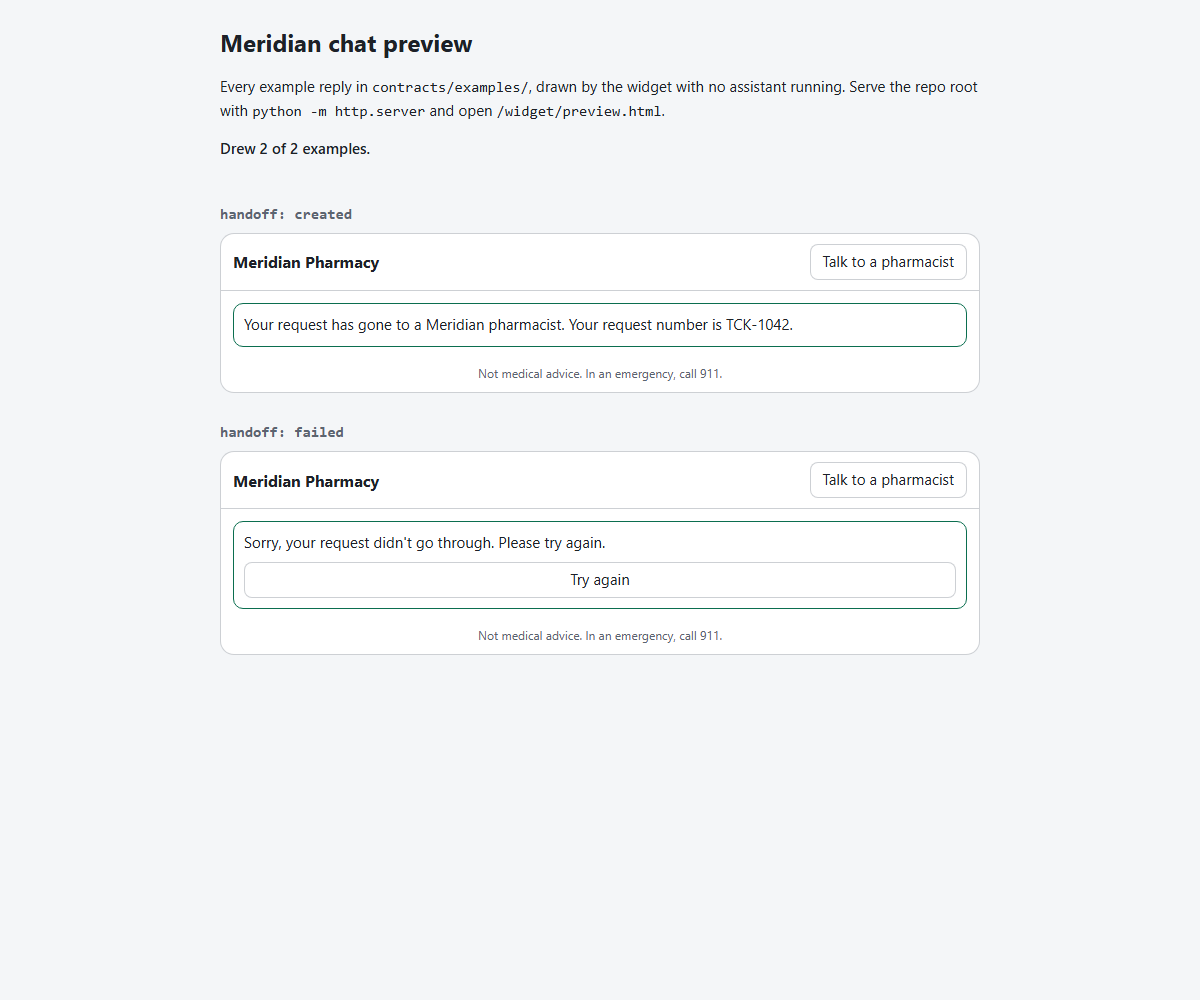
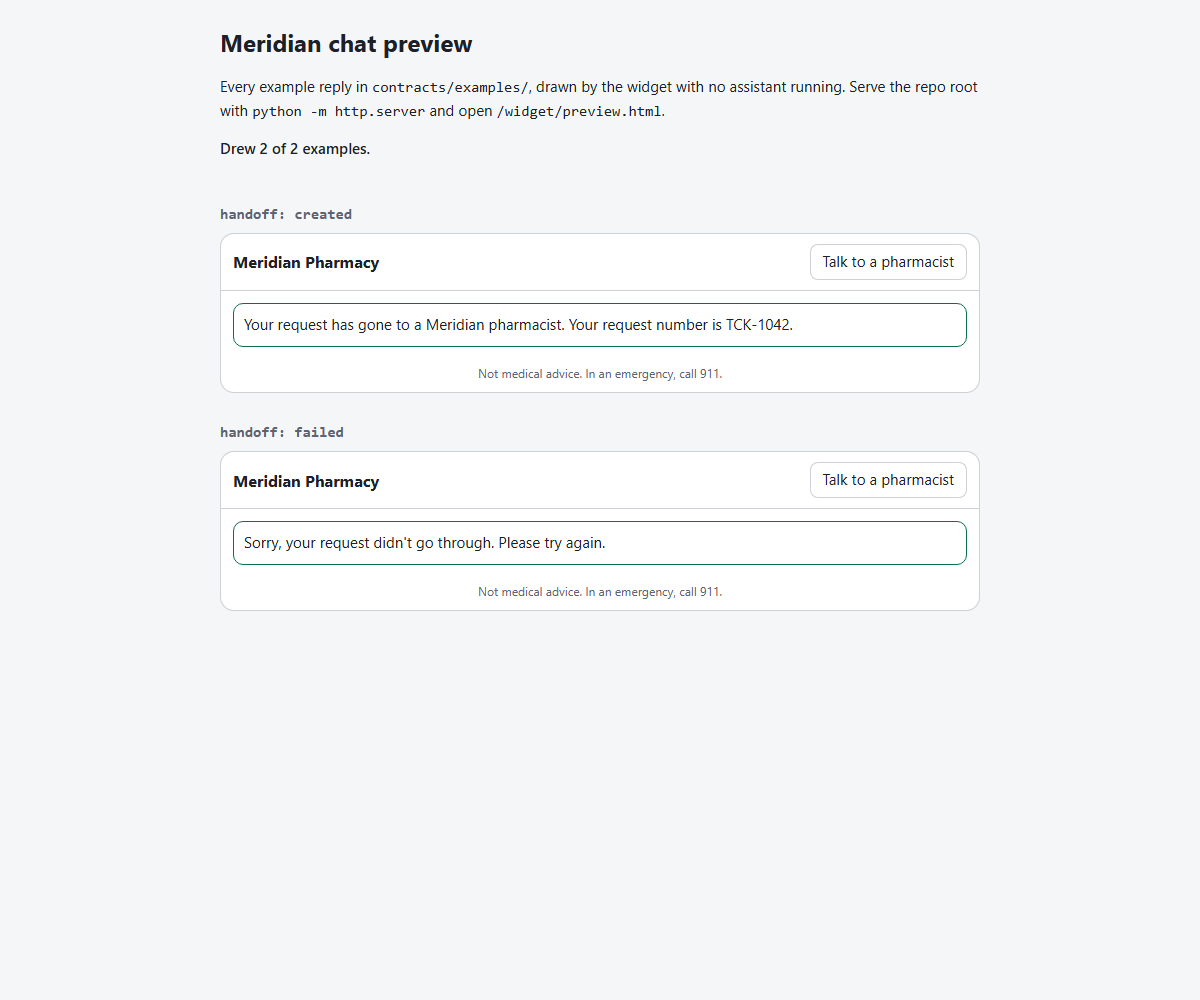
wip(repo-cleanup): trim repeated and stale documentation, refresh the handoff preview

Changed region(s): [[0.37, 0.558, 0.6167, 0.651]]

diff --git a/README.md b/README.md
@@ -54,13 +54,6 @@ strict structured outputs. DeepSeek V4.1 Flash is listed the same way but reject
 such request with HTTP 400, so it is not offered. OpenCode describes Go as built for coding agents and
 monitors its traffic. An OpenAI API key is unused.
 
-The historical held-out results in [`eval/REPORT.md`](eval/REPORT.md) were measured before this
-change, on Groq-hosted GPT-OSS 120B with a Groq Qwen 3.8 27B judge (its calibration is
-kept in `eval/results/calibration-groq-qwen.md`). The newer OpenCode pair measured
-the code at issue 33. The [provider results comparison](eval/experiments/opencode-2026-11-16/PROVIDER_COMPARISON.md)
-shows both configurations with their actual models, judges and code fingerprints;
-the historical files remain unchanged.
-
 ```bash
 make run          # then open http://localhost:8000/demo
 ```
@@ -361,19 +354,15 @@ make eval              # the 60 test cases with exact matching first; then write
 
 Each run writes its raw results as JSON and a short Markdown summary to `eval/results/`.
 `make eval-compare` refuses a development run made on different code, so run
-`make eval-dev` first. These Make targets use default output paths; use the isolated
-procedure below for the requested new held-out run, preserving the historical files.
+`make eval-dev` first. These Make targets write to the default paths; for a new held-out
+run, use the isolated procedure below so the historical files stay unchanged.
 Live client construction, evaluation and calibration reject non-OpenCode roles.
 `make check` tests the harness offline, with both models faked.
 
 ### Fresh OpenCode held-out comparison
 
-Status on 2026-11-16: **completed**, using GLM-5.3 for both runtime variants and
-Kimi K3.1 Pro as judge. The existing key worked through the project's `uv --env-file`
-loader; the earlier missing-key claim had checked only the inherited process
-environment. No key value was displayed. The user explicitly authorized these live
-runs. All newly executed evaluations used OpenCode; the Groq comparison uses its
-preserved results, with no fresh Groq calls.
+Run on 2026-11-16 with GLM-5.3 for both runtime variants and Kimi K3.1 Pro as judge.
+The Groq comparison reuses its preserved results, with no new Groq calls.
 
 | Metric | OpenCode baseline | OpenCode improved |
 | --- | --- | --- |
@@ -512,6 +501,8 @@ beside the corrected ones ([eval/results/LABEL_AUDIT.md](eval/results/LABEL_AUDI
 | OpenCode GLM-5.3-Flash + Kimi judge | 12-case [development run](eval/results/dev.md) after issue 17 | 12/12 (100%) | 10.209 s |
 | OpenCode GLM-5.3 + Kimi judge | Earlier 12-case [development comparison](eval/results/dev-compare-before-17.md) | 12/12 (100%) | 2.083 s |
 | OpenCode GLM-5.3-Flash + Kimi judge | Earlier 12-case [development run](eval/results/dev-before-17.md) | 11/12 (91.7%) | 8.157 s |
+| Groq GPT-OSS 120B and 20B + Qwen judge | Historical 12-case [development comparison](eval/results/dev-groq20b.md) | 9/12 and 9/12 (75.0%) | 13.342 s and 29.221 s |
+| Groq GPT-OSS 120B + Qwen judge | Historical 12-case [development run cut short by rate limits](eval/results/dev-quota-limited.md) | 4/12 (33.3%) | 1.392 s |
 
 The historical held-out and development runs measured the code of their time. The new
 OpenCode runs include the E1-E5 review fixes and empty-completion fallback fix, with
@@ -520,10 +511,10 @@ scored 20/20 against AI labels. The earlier post-issue-17 measurements remain ar
 their lower latency does not describe the latest run.
 
 In the earlier post-issue-17 run both OpenCode models scored 12/12. GLM-5.3 was much faster, with a p95 of
-1.9 s against 10.2 s, and is the only configuration here inside the 4-second target. It
+1.9 s against 10.2 s, inside the 4-second target; on issue 33's code its p95 was 12.4 s. It
 costs about 6.3 times as much in tokens (an estimated $0.0170 per run against $0.0027), and
-it became the default; GLM-5.3-Flash stays selectable. Flash's two runs show how much a
-12-case run varies: 11/12 then 12/12, and a p95 of 8.2 s then 10.2 s. Its earlier failure,
+it became the default; GLM-5.3-Flash stays selectable. Flash's three runs show how much a
+12-case run varies: 11/12, 12/12, then 10/12, with a p95 of 8.2 s, 10.2 s, then 13.5 s. Its earlier failure,
 dev-009, is a prescription question it labeled as dosing beyond the label. The reply then
 showed another product's directions, a defect issue 17 fixed. In the later run it labeled
 the question correctly, so that 12/12 reflects the model on that run, not the fix.
@@ -550,10 +541,10 @@ again, and when the agents could run live commands or assign labels.
 | Issues 14 and 15: the stale-card fix | Codex (contract) and Claude Code (binding and widget) | Claude Code reviewed the contract | #11, #12 |
 | Issue 10: this README | Claude Code drafted it; I checked and reworded it | | #13 |
 | Issues 17 and 18: the quality follow-up | Claude Code, after a read-only diagnosis of the saved development runs | I chose the fix and, after re-running the development set, the default model | #14, #15 |
-| Issue 33: fresh live checks and historical/current comparison | Codex, using the existing project credential loader on my explicit instruction | Raw case/configuration fingerprints and paired results checked; no tuning against test questions | Local issue branch |
+| Issues 23-34: the review fixes (redaction, emergency rules, risk labels, emergency scheduling, evaluation fingerprints, empty completions), the OpenCode evaluation and comparison, and this cleanup | Codex; Claude Code finished issue 34 | Codex checked case and configuration fingerprints and the paired results, with no tuning against test questions; Claude Code audited the stack for dead code and stale docs before merge | PR_NUMBER |
 
-Merged issues used one branch and one pull request each; newer local checkpoints
-await publication and review. Acceptance criteria name the tests proving them. Both agents followed the same rules in `AGENTS.md`: module
+Most issues were merged one pull request each; issues 23-34 were built as local
+checkpoints and merged together in one pull request. Acceptance criteria name the tests proving them. Both agents followed the same rules in `AGENTS.md`: module
 boundaries a test enforces, no real model in any test, customer-facing text only from
 templates. They shared one note, `HANDOFF.md` (kept out of git): the issue, the ticked
 criteria and their tests, the last check result, the decisions and the next step. When
@@ -577,7 +568,7 @@ What the reviews and checks caught:
   policy. It was corrected after the live runs, the same replies were rescored, and the
   original results are kept.
 - **Rate limits scored as answers.** Groq's free-tier limits turned development runs into
-  fallback replies (4/12 at worst). The evaluation now waits out short limits, and stops
+  fallback replies ([4/12 at worst](eval/results/dev-quota-limited.md)). The evaluation now waits out short limits, and stops
   without saving anything when a limit is too long to wait out.
 - **A stale pharmacist card.** Codex's whole-project review found that an old emergency
   card, clicked after a newer fallback card, filed a routine ticket. Issue 15 binds every
@@ -622,12 +613,13 @@ What the reviews and checks caught:
 - Order verification is the order number plus the matching email or phone, with no
   one-time code.
 
-These fixes have offline regression coverage ([fix plan](docs/FIXES.md#e-feasible-follow-ups-from-the-latest-review-completed-locally));
+These fixes have offline regression coverage ([fix plan](docs/FIXES.md#e-feasible-follow-ups-from-the-latest-review-completed));
 the new live pair measures the fixed code while original measurements remain intact.
 Evaluation fingerprints now include API/contract code and actual policy documents.
 The issue 33 runs have matching fingerprints for their measured code. Issue 34's
-unused report-option and docstring cleanup changes that fingerprint and was checked
-offline only; saved runs cannot be mixed with new code in a same-code comparison.
+cleanup removed unreachable code and the catalog prompt's store-lookup option, which
+always ended in a failed lookup. It changes that fingerprint and was checked offline
+only; saved runs cannot be mixed with new code in a same-code comparison.
 
 ### Product
 
@@ -649,7 +641,7 @@ offline only; saved runs cannot be mixed with new code in a same-code comparison
   accuracy, excess handoff offers and timeout reliability using development/synthetic
   cases. Preserve the completed held-out evidence rather than tuning against its questions.
 - Give the judge a conversation's earlier messages if follow-ups become a bigger share of
-  the cases; today they are 2 of 30 judged held-out turns.
+  the cases; each historical Groq held-out run had 2 among its 30 judged turns.
 - Fixes for the open safety and privacy gaps above.
 - Holiday hours, typo tolerance in search, clarifying questions with buttons, and turns
   that ask two things at once.

diff --git a/docs/FIXES.md b/docs/FIXES.md
@@ -1,32 +1,18 @@
 # Review fixes and submission plan
 
-Updated 2026-11-16 after the user authorized implementation of the
-[issue 23](issues/23-review-fix-plan.md) plan. E1-E5 are implemented and tested
-locally in issues 24-28; [issue 29](issues/29-review-fix-documentation.md) records
-completion and remaining validation. The implementation commits are stacked on
-local issue branches, pending publication/review. [Issue 33](issues/33-provider-results-comparison.md)
-has now completed fresh live calibration, development checks and the full held-out pair.
-
-Current evaluation policy ([issue 32](issues/32-opencode-evaluation.md)) is
-OpenCode Go only: GLM-5.3 runtime, GLM-5.3-Flash development comparison and
-Kimi K3.1 Pro judge. The new held-out pair scored 46/60 baseline and 49/60 improved,
-with improved p95 13.118s; accuracy, escalation precision and latency miss targets.
-The [measured comparison](../eval/experiments/opencode-2026-11-16/PROVIDER_COMPARISON.md)
-preserves historical evidence and identifies changed code/judge as confounders.
+E1-E5 below were planned in [issue 23](issues/23-review-fix-plan.md), built in
+issues 24-28 and recorded in [issue 29](issues/29-review-fix-documentation.md).
+Evaluation uses OpenCode Go only ([issue 32](issues/32-opencode-evaluation.md));
+[issue 33](issues/33-provider-results-comparison.md) measured the fixed code, and the
+[provider results comparison](../eval/experiments/opencode-2026-11-16/PROVIDER_COMPARISON.md)
+holds the numbers and their confounders.
 
 The earlier A-D queue has been addressed through issues 14-22: offer binding,
 README completion, the named-product fix, the default-model decision and the
 judge-context investigation. A-D below summarize those outcomes and link their
 issue scopes and tests. The video and validation gaps remain pending.
 
-The initial plan is [issue 13](issues/13-fix-plan.md). Record each future issue's
-implementation criteria in `HANDOFF.md` once implementation is requested.
-
-Use one shared queue. Codex and Claude can both build every item; there are no
-separate owners. The active agent works through the queue while reserving enough
-capacity for checks and a complete handoff, then stops **before** its hard limit.
-Everything it did must be recorded in `HANDOFF.md`; the next agent continues
-from that record without needing the chat.
+The initial plan is [issue 13](issues/13-fix-plan.md).
 
 ## Review findings and fixes
 
@@ -115,12 +101,12 @@ scores and original-label artifacts; a new held-out experiment needs its own
 user authorization and separate outputs. The later authorized OpenCode experiment
 is recorded in [issue 33](issues/33-provider-results-comparison.md).
 
-## E. Feasible follow-ups from the latest review (completed locally)
+## E. Feasible follow-ups from the latest review (completed)
 
 All reproductions below used synthetic inputs and offline fakes. The review's
-baseline was 1,365 passing tests. E1-E5 now have regression coverage and 1,454
-tests pass, with Ruff lint/format green. Full checks and commits were recorded
-after each criterion in HANDOFF.md. Existing dependencies/contracts were sufficient.
+baseline was 1,365 passing tests. E1-E5 have regression coverage; the suite passed
+1,454 tests when they were complete, with Ruff lint/format green, and each criterion
+was checked and committed separately. Existing dependencies/contracts were sufficient.
 No improvement to live model scores is claimed by these offline checks.
 
 ### E1. Close the reproduced phone-redaction gaps
@@ -276,9 +262,8 @@ Acceptance:
   paths and matching metadata for the code measured in issue 33. The user's explicit authorization
   permitted credential loading/live evaluation for this experiment; future live
   work still follows AGENTS.md unless the user authorizes it.
-- Preserve the disclosed historical metrics and one-net-case improvement. The
-  90% accuracy/four-second p95 targets are project goals, not submission thresholds
-  from the brief. No metric improvement is claimed for this planning update.
+- Preserve the disclosed historical metrics and one-net-case improvement. No metric
+  improvement is claimed for this planning update.
 
 ### Deferred at this stage
 
@@ -298,8 +283,6 @@ Acceptance:
 
 ## Next action
 
-E1-E5 code and this completion note are ready for review on local stacked issue
-branches. Publish/review one issue at a time, consolidating same-issue follow-up
-commits as needed without rewriting main or a remote branch. Keep E6's video,
-human-label review, live widget acceptance and any new live measurements pending
-until they are actually completed. Do not restart E1-E5 or rerun archived evaluations.
+E1-E5 are complete. Keep E6's video, human-label review, live widget acceptance and
+any new live measurements pending until they are actually completed. Do not restart
+E1-E5 or rerun archived evaluations.

diff --git a/docs/TEST_REPORT.md b/docs/TEST_REPORT.md
@@ -6,34 +6,24 @@ scripted or supplied through a fake SDK HTTP transport. No external model call,
 key file, held-out case inspection or saved evaluation update was used.
 
 Live follow-up, 2026-11-16 ([issue 33](issues/33-provider-results-comparison.md)):
-completed with GLM-5.3, GLM-5.3-Flash and Kimi K3.1 Pro on OpenCode. The user
-explicitly authorized project credential loading and live calls. The existing
-key worked through `uv --env-file`; the earlier missing-key conclusion had only
-checked the inherited environment. No key value was displayed or copied.
-
-Kimi calibration scored 20/20; GLM development 12/12; Flash development 10/12.
-The full60 pair scored 46/60 baseline and 49/60 improved. Improved groundedness
-was 38/38, escalation precision 23/28, recall 23/23, emergency recall 6/6, leaks
-0/60, p95 13.118 seconds. Accuracy, precision and latency miss project targets.
-The [provider results comparison](../eval/experiments/opencode-2026-11-16/PROVIDER_COMPARISON.md)
-compares these to archived Groq scores without attributing differences solely
-to provider: code and judge also differ. The actual cases and judge prompt match.
-No successful run was restarted after continuation because fingerprints matched.
-The full offline suite now passes 1,461 tests; original browser acceptance is
-still blocked. Offline checks and these separate live measurements are distinct.
+OpenCode calibration, development and held-out runs completed; the
+[provider results comparison](../eval/experiments/opencode-2026-11-16/PROVIDER_COMPARISON.md)
+has their numbers and how they compare with the archived Groq runs. The full offline
+suite now passes 1,457 tests. Offline checks and these separate live measurements are
+distinct.
 
 ## Results
 
 | Check | Result | Evidence and scope |
 | --- | --- | --- |
-| Ruff lint and format | PASS | Full repository checks; exact commands/outcomes recorded in HANDOFF. |
-| Full offline suite | PASS | Latest 1,461 tests, including contracts, architecture, catalog/data, API, assistant, SDK boundaries and evaluation harness. Original system checkpoint had 1,456. |
+| Ruff lint and format | PASS | Full repository checks; the commands are under [Reproduction](#reproduction-and-remaining-acceptance). |
+| Full offline suite | PASS | Latest 1,457 tests, including contracts, architecture, catalog/data, API, assistant, SDK boundaries and evaluation harness. Original system checkpoint had 1,456; issue 34 removed four cases that only tested deleted dead code. |
 | Installed dependencies | PASS | `uv --cache-dir .uv-system-check pip check --python .venv/Scripts/python.exe`: 31 packages compatible. No install. |
 | Catalog integration matrix | PASS | 302 in-process HTTP turns through real default retrieval/tool wiring and mock API, with scripted models. |
 | Separate assistant/API over TCP | PASS | 12 flow groups against two ephemeral loopback uvicorn services; actual HTTP client between services. |
 | Widget JavaScript syntax | PASS | `node --check widget/meridian-chat.js` and Node syntax checks for both inline HTML scripts; external script paths exist. |
 | Browser interaction/rendering | BLOCKED | Browser host unavailable; native Chrome fallback stopped because Computer Use could not confidently determine the current URL. No bypass or alternative browser automation attempted. |
-| Live model evaluation | COMPLETED, TARGETS MISSED | User-authorized OpenCode calibration, two12-case development runs and two60-case held-out runs; see linked raw results/report. Offline checks remain fake. |
+| Live model evaluation | COMPLETED, TARGETS MISSED | User-authorized OpenCode calibration, two 12-case development runs and two 60-case held-out runs; see linked raw results/report. Offline checks remain fake. |
 
 ## Catalog integration matrix
 
@@ -118,7 +108,8 @@ Browser acceptance remains open:
 - Serve the repository statically, then open `widget/preview.html`: expect 20/20
   examples. Open `widget/handoff-test.html`: expect PASS 8/8 for its deferred-fetch
   handoff/retry/concurrency scenarios. Neither fixture was executed in a browser
-  during this verification.
+  during this verification. Later, issue 34 rendered `widget/preview.html` in
+  Edge headless: 20/20 examples, and the refreshed `08-handoff.png`.
 - The user runs `make run` and follows the README demo: product/source chip,
   stock/store answers, private order form and wrong contact, safety refusal,
   confirmed pharmacist ticket, emergency banner, keyboard/Enter/Escape and focus.

diff --git a/artifacts/widget-preview/README.md b/artifacts/widget-preview/README.md
@@ -2,7 +2,9 @@
 
 Inspected by Codex on 2026-11-15 using installed Microsoft Edge headless against
 `http://localhost:8000/widget/preview.html`, served from the repository root by
-`.venv/Scripts/python.exe -m http.server 8000 --bind 127.0.0.1`.
+`.venv/Scripts/python.exe -m http.server 8000 --bind 127.0.0.1`. Re-rendered the
+same way on 2026-11-16 (issue 34): seven group screenshots came out byte-identical,
+and `08-handoff.png` was replaced because issue 15 removed the preview's retry button.
 
 The full page reported **Drew 20 of 20 examples.** Eight grouped screenshots cover
 all 18 chat replies and both handoff states; every group reported its expected
@@ -14,7 +16,7 @@ Visual review found no clipping, overlapping controls or missing reply content a
 the captured desktop widths. The comparison table, product list, stock and store
 details, sources, order forms and generic failure text are visible. The emergency
 banner appears before its pharmacist card. Risk/fallback cards and the handoff
-success and retry states are visible; ordinary non-risk replies have no offer card.
+success and failure states are visible; ordinary non-risk replies have no offer card.
 
 - `01-label-and-products.png`: label sections and product list.
 - `02-comparison.png`: both products and all four label sections.
@@ -23,14 +25,8 @@ success and retry states are visible; ordinary non-risk replies have no offer ca
 - `05-emergency-and-risk.png`: emergency, medical advice and dosing beyond label.
 - `06-refusals-and-fallback.png`: prescription, injection refusal and fallback.
 - `07-other-replies.png`: off topic, not found and failed lookup.
-- `08-handoff.png`: created ticket and failed creation with retry.
-
-The interactive browser-control tools failed initialization with a missing kernel
-assets path. The first sandboxed Edge attempt also failed because its GPU process
-could not initialize; the installed renderer succeeded outside that process
-sandbox. Browser security settings were not changed. A normal Edge launch was
-also requested at the user's URL, but its visible window could not be verified
-through the unavailable UI tools.
+- `08-handoff.png`: created ticket and failed creation. The preview passes no retry
+  callback, so the failed state has no "Try again" button.
 
 This is a static visual inspection, not a live assistant test. Keyboard navigation,
 opening source chips, submitting forms, retries, and mobile layouts were not

diff --git a/docs/issues/34-repo-cleanup.md b/docs/issues/34-repo-cleanup.md
@@ -38,7 +38,7 @@ callers cannot trigger them.
   `TurnResult.tool` (only tests read it); `search`'s `k <= 0` guard (k is always
   5); the catalog prompt's store-lookup option (refused for every intent that
   reaches the catalog agent). Update the tests that only exercised them.
-- [ ] 4. Trim documentation that repeats another file or no longer matches the
+- [x] 4. Trim documentation that repeats another file or no longer matches the
   current version, and fix stale facts and typos. Keep every file a kept
   document cites; local links resolve.
 
